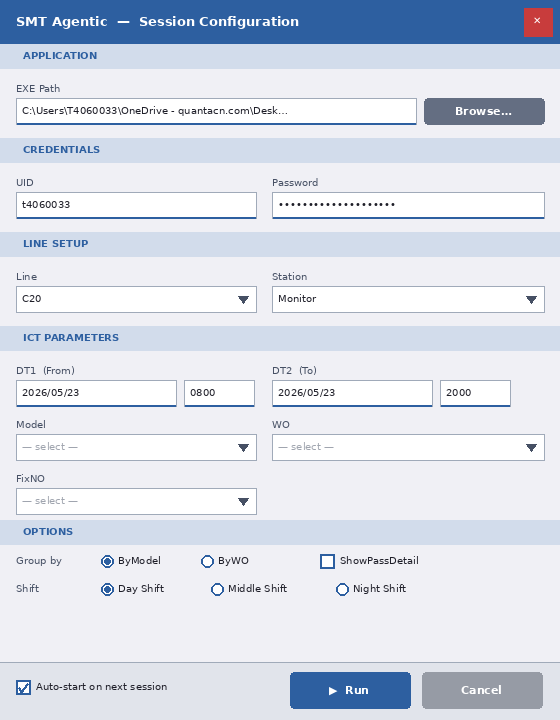
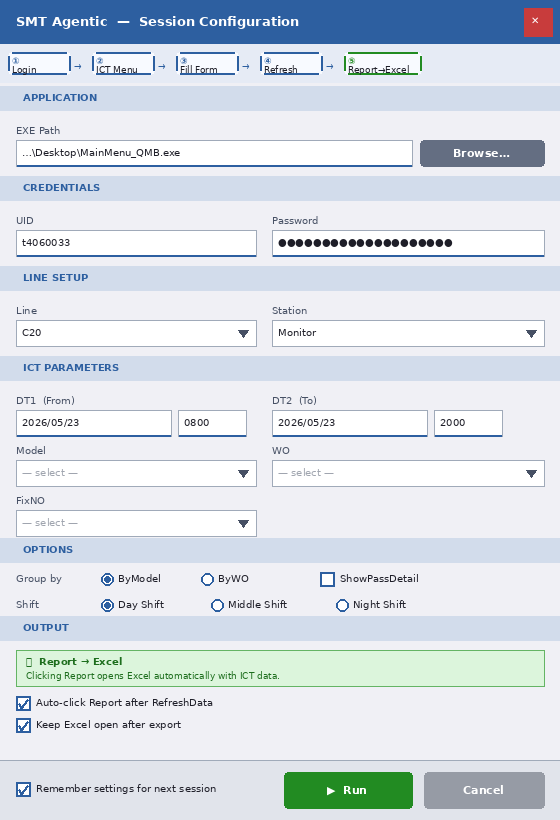
feat: update UI mockup with flow strip and Output/Excel section
- Add compact 5-step process flow strip at top (Login→ICT Menu→Fill Form→Refresh→Report→Excel)
- Add OUTPUT section with green info box describing Excel export behavior
- Add "Auto-click Report after RefreshData" and "Keep Excel open" checkboxes
- Resize canvas to H=820 to accommodate new sections

https://claude.ai/code/session_01MAY3agYrcekE98zLmVcJhG

diff --git a/prototype/mockup.py b/prototype/mockup.py
@@ -3,77 +3,73 @@
 from PIL import Image, ImageDraw, ImageFont
 import os
 
-W, H = 560, 720
-BG       = (240, 240, 245)
-TITLEBAR = (45,  95, 160)
-SECTION  = (210, 220, 235)
-WHITE    = (255, 255, 255)
-BORDER   = (160, 170, 185)
-TEXT     = (30,  30,  40)
-LABEL    = (70,  80, 100)
-BTN_RUN  = (45,  95, 160)
-BTN_CANCEL=(150,155,165)
-BTN_TEXT = (255,255,255)
-ACCENT   = (45,  95, 160)
-RADIO_ON = (45,  95, 160)
-RED_HINT = (210,  60,  60)
-PLACEHOLDER=(160,165,175)
+W, H = 560, 820
+BG          = (240, 240, 245)
+TITLEBAR    = (45,  95, 160)
+SECTION     = (210, 220, 235)
+WHITE       = (255, 255, 255)
+BORDER      = (160, 170, 185)
+TEXT        = (30,  30,  40)
+LABEL       = (70,  80, 100)
+BTN_RUN     = (34, 139,  34)
+BTN_CANCEL  = (150,155,165)
+BTN_TEXT    = (255,255,255)
+ACCENT      = (45,  95, 160)
+PLACEHOLDER = (160,165,175)
+GREEN_LIGHT = (220, 245, 220)
+GREEN_BORDER= (100, 180, 100)
+GREEN_TEXT  = (30,  110,  30)
+FLOW_BG     = (248, 250, 255)
+FLOW_ARROW  = (45,   95, 160)
 
 img = Image.new("RGB", (W, H), BG)
 d   = ImageDraw.Draw(img)
 
-# ── font helpers ──────────────────────────────────────────────────────────────
+# ── fonts ─────────────────────────────────────────────────────────────────────
 def font(size, bold=False):
-    candidates = [
+    for p in [
         "/usr/share/fonts/truetype/dejavu/DejaVuSans-Bold.ttf" if bold else
         "/usr/share/fonts/truetype/dejavu/DejaVuSans.ttf",
         "/usr/share/fonts/truetype/liberation/LiberationSans-Bold.ttf" if bold else
         "/usr/share/fonts/truetype/liberation/LiberationSans-Regular.ttf",
-    ]
-    for p in candidates:
+    ]:
         if os.path.exists(p):
             return ImageFont.truetype(p, size)
     return ImageFont.load_default()
 
-F_TITLE  = font(13, bold=True)
-F_SECT   = font(10, bold=True)
-F_LABEL  = font(10)
-F_INPUT  = font(10)
-F_BTN    = font(11, bold=True)
-F_SMALL  = font(9)
+F_TITLE = font(13, bold=True)
+F_SECT  = font(10, bold=True)
+F_LABEL = font(10)
+F_INPUT = font(10)
+F_BTN   = font(11, bold=True)
+F_SMALL = font(9)
+F_FLOW  = font(9, bold=True)
 
-# ── helpers ───────────────────────────────────────────────────────────────────
-def roundrect(draw, xy, r, fill, outline=None, width=1):
+# ── drawing helpers ───────────────────────────────────────────────────────────
+def roundrect(draw, xy, r, fill, outline=None, lw=1):
     x1,y1,x2,y2 = xy
     draw.rectangle([x1+r,y1,x2-r,y2], fill=fill)
     draw.rectangle([x1,y1+r,x2,y2-r], fill=fill)
-    draw.ellipse([x1,y1,x1+2*r,y1+2*r], fill=fill)
-    draw.ellipse([x2-2*r,y1,x2,y1+2*r], fill=fill)
-    draw.ellipse([x1,y2-2*r,x1+2*r,y2], fill=fill)
-    draw.ellipse([x2-2*r,y2-2*r,x2,y2], fill=fill)
+    for ex,ey in [(x1,y1),(x2-2*r,y1),(x1,y2-2*r),(x2-2*r,y2-2*r)]:
+        draw.ellipse([ex,ey,ex+2*r,ey+2*r], fill=fill)
     if outline:
-        draw.rectangle([x1+r,y1,x2-r,y1+width], fill=outline)
-        draw.rectangle([x1+r,y2-width,x2-r,y2], fill=outline)
-        draw.rectangle([x1,y1+r,x1+width,y2-r], fill=outline)
-        draw.rectangle([x2-width,y1+r,x2,y2-r], fill=outline)
+        draw.rectangle([x1+r,y1,x2-r,y1+lw], fill=outline)
+        draw.rectangle([x1+r,y2-lw,x2-r,y2], fill=outline)
+        draw.rectangle([x1,y1+r,x1+lw,y2-r], fill=outline)
+        draw.rectangle([x2-lw,y1+r,x2,y2-r], fill=outline)
 
 def text_field(draw, x, y, w, value, placeholder=False, pw=False):
     h = 26
     draw.rectangle([x,y,x+w,y+h], fill=WHITE, outline=BORDER)
-    # blue bottom border (focus style)
-    draw.line([x+1, y+h-1, x+w-1, y+h-1], fill=ACCENT, width=2)
-    val = "●" * len(value) if pw else value
+    draw.line([x+1,y+h-1,x+w-1,y+h-1], fill=ACCENT, width=2)
     col = PLACEHOLDER if placeholder else TEXT
-    draw.text((x+6, y+6), val, font=F_INPUT, fill=col)
+    draw.text((x+6, y+6), "●"*len(value) if pw else value, font=F_INPUT, fill=col)
 
 def dropdown(draw, x, y, w, value, placeholder=False):
-    h = 26
     col = PLACEHOLDER if placeholder else TEXT
-    draw.rectangle([x,y,x+w,y+h], fill=WHITE, outline=BORDER)
+    draw.rectangle([x,y,x+w,y+26], fill=WHITE, outline=BORDER)
     draw.text((x+6, y+6), value, font=F_INPUT, fill=col)
-    # arrow
-    ax = x+w-18
-    ay = y+10
+    ax = x+w-18; ay = y+10
     draw.polygon([(ax,ay),(ax+10,ay),(ax+5,ay+7)], fill=LABEL)
 
 def button(draw, x, y, w, h, label, bg, fg=BTN_TEXT):
@@ -82,8 +78,8 @@ def button(draw, x, y, w, h, label, bg, fg=BTN_TEXT):
     draw.text((x+(w-tw)//2, y+(h-14)//2), label, font=F_BTN, fill=fg)
 
 def section_header(draw, y, label):
-    draw.rectangle([0, y, W, y+24], fill=SECTION)
-    draw.text((16, y+5), label, font=F_SECT, fill=ACCENT)
+    draw.rectangle([0,y,W,y+24], fill=SECTION)
+    draw.text((16,y+5), label, font=F_SECT, fill=ACCENT)
     return y+24
 
 def radio(draw, x, y, label, on=False):
@@ -93,110 +89,138 @@ def radio(draw, x, y, label, on=False):
         draw.ellipse([cx-3,cy-3,cx+3,cy+3], fill=ACCENT)
     draw.text((x+18, y), label, font=F_LABEL, fill=TEXT)
 
-def checkbox(draw, x, y, label, checked=False):
+def checkbox(draw, x, y, label, checked=False, label_col=None):
     draw.rectangle([x,y,x+14,y+14], outline=ACCENT, fill=WHITE, width=2)
     if checked:
         draw.line([x+2,y+7,x+5,y+12], fill=ACCENT, width=2)
         draw.line([x+5,y+12,x+12,y+3], fill=ACCENT, width=2)
-    draw.text((x+20, y), label, font=F_LABEL, fill=TEXT)
+    draw.text((x+20, y), label, font=F_LABEL, fill=label_col or TEXT)
+
+def flow_step(draw, x, y, w, h, icon, label, color=ACCENT):
+    roundrect(draw, [x,y,x+w,y+h], 6, FLOW_BG, outline=color, lw=1)
+    draw.text((x+8, y+4), icon,  font=F_FLOW, fill=color)
+    draw.text((x+8, y+16), label, font=F_SMALL, fill=TEXT)
+
+def arrow(draw, x, y):
+    draw.line([x,y,x,y+10], fill=FLOW_ARROW, width=2)
+    draw.polygon([(x-4,y+8),(x+4,y+8),(x,y+14)], fill=FLOW_ARROW)
 
 # ══════════════════════════════════════════════════════════════════════════════
 # Title bar
 d.rectangle([0,0,W,44], fill=TITLEBAR)
 d.text((16,13), "SMT Agentic  —  Session Configuration", font=F_TITLE, fill=WHITE)
-# close button
 d.rectangle([W-36,8,W-8,36], fill=(200,60,60))
-d.text((W-27,14), "✕", font=F_LABEL, fill=WHITE)
+d.text((W-29,14), "✕", font=F_LABEL, fill=WHITE)
 
+# ── Flow strip (compact) ──────────────────────────────────────────────────────
 y = 44
+d.rectangle([0,y,W,y+38], fill=(230,235,245))
+steps = [
+    ("①","Login"),("→",None),("②","ICT Menu"),("→",None),
+    ("③","Fill Form"),("→",None),("④","Refresh"),("→",None),("⑤","Report→Excel"),
+]
+sx = 8
+sy = y+8
+for icon, label in steps:
+    if label is None:
+        d.text((sx, sy+8), icon, font=F_SMALL, fill=FLOW_ARROW)
+        sx += 18
+    else:
+        tw = max(draw.textlength(label, font=F_SMALL) for draw in [d]) + 16
+        tw = max(tw, 62)
+        col = (34,139,34) if "Excel" in label else ACCENT
+        roundrect(d, [sx,sy,sx+tw,sy+22], 4, FLOW_BG, outline=col, lw=1)
+        d.text((sx+4, sy+3),  icon,  font=F_FLOW,  fill=col)
+        d.text((sx+4, sy+12), label, font=F_SMALL, fill=TEXT)
+        sx += tw + 4
 
-# ── Section: Application ──────────────────────────────────────────────────────
+y += 42
+
+# ── APPLICATION ───────────────────────────────────────────────────────────────
 y = section_header(d, y, "  APPLICATION")
 y += 8
-d.text((16, y+6), "EXE Path", font=F_LABEL, fill=LABEL)
-text_field(d, 16, y+22, 400, r"C:\Users\T4060033\OneDrive - quantacn.com\Desktop\MainMenu_QMB.exe"[:46]+"…")
-button(d, 424, y+22, 120, 26, "Browse…", (100,110,130))
-y += 62
+d.text((16,y+6), "EXE Path", font=F_LABEL, fill=LABEL)
+text_field(d, 16, y+22, 396, r"…\Desktop\MainMenu_QMB.exe")
+button(d, 420, y+22, 124, 26, "Browse…", (100,110,130))
+y += 58
 
-# ── Section: Credentials ─────────────────────────────────────────────────────
+# ── CREDENTIALS ───────────────────────────────────────────────────────────────
 y = section_header(d, y, "  CREDENTIALS")
 y += 8
-# UID
-d.text((16, y+6), "UID", font=F_LABEL, fill=LABEL)
-text_field(d, 16, y+22, 240, "t4060033")
-# Password
-d.text((272, y+6), "Password", font=F_LABEL, fill=LABEL)
-text_field(d, 272, y+22, 272, "••••••••••••••••••••", pw=False)
-y += 62
+d.text((16,y+6),  "UID",      font=F_LABEL, fill=LABEL)
+text_field(d, 16,  y+22, 240, "t4060033")
+d.text((272,y+6), "Password", font=F_LABEL, fill=LABEL)
+text_field(d, 272, y+22, 272, "●●●●●●●●●●●●●●●●●●●●")
+y += 58
 
-# ── Section: Line / Station ───────────────────────────────────────────────────
+# ── LINE SETUP ────────────────────────────────────────────────────────────────
 y = section_header(d, y, "  LINE SETUP")
 y += 8
-d.text((16, y+6),  "Line",    font=F_LABEL, fill=LABEL)
+d.text((16,y+6),  "Line",    font=F_LABEL, fill=LABEL)
 dropdown(d, 16,  y+22, 240, "C20")
-d.text((272, y+6), "Station", font=F_LABEL, fill=LABEL)
+d.text((272,y+6), "Station", font=F_LABEL, fill=LABEL)
 dropdown(d, 272, y+22, 272, "Monitor")
-y += 62
+y += 58
 
-# ── Section: ICT Parameters ───────────────────────────────────────────────────
+# ── ICT PARAMETERS ────────────────────────────────────────────────────────────
 y = section_header(d, y, "  ICT PARAMETERS")
 y += 8
-# DT1
-d.text((16, y+6),  "DT1  (From)",  font=F_LABEL, fill=LABEL)
-text_field(d, 16,  y+22, 160, "2026/05/23")
-text_field(d, 184, y+22, 70,  "0800")
-# DT2
-d.text((272, y+6), "DT2  (To)",    font=F_LABEL, fill=LABEL)
-text_field(d, 272, y+22, 160, "2026/05/23")
-text_field(d, 440, y+22, 70,  "2000")
-y += 54
+d.text((16,y+6),  "DT1  (From)", font=F_LABEL, fill=LABEL)
+text_field(d, 16,  y+22, 155, "2026/05/23")
+text_field(d, 178, y+22, 68,  "0800")
+d.text((272,y+6), "DT2  (To)",   font=F_LABEL, fill=LABEL)
+text_field(d, 272, y+22, 155, "2026/05/23")
+text_field(d, 434, y+22, 68,  "2000")
+y += 50
 
-# Model / WO
-d.text((16, y+6),  "Model",  font=F_LABEL, fill=LABEL)
+d.text((16,y+6),  "Model", font=F_LABEL, fill=LABEL)
 dropdown(d, 16,  y+22, 240, "— select —", placeholder=True)
-d.text((272, y+6), "WO",     font=F_LABEL, fill=LABEL)
+d.text((272,y+6), "WO",    font=F_LABEL, fill=LABEL)
 dropdown(d, 272, y+22, 272, "— select —", placeholder=True)
-y += 54
+y += 50
 
-# FixNO
-d.text((16, y+6), "FixNO", font=F_LABEL, fill=LABEL)
+d.text((16,y+6), "FixNO", font=F_LABEL, fill=LABEL)
 dropdown(d, 16, y+22, 240, "— select —", placeholder=True)
-y += 54
+y += 50
 
-# ── Section: Options ─────────────────────────────────────────────────────────
+# ── OPTIONS ───────────────────────────────────────────────────────────────────
 y = section_header(d, y, "  OPTIONS")
 y += 10
-
-# ByModel / ByWO
-d.text((16, y), "Group by", font=F_LABEL, fill=LABEL)
+d.text((16,y),   "Group by", font=F_LABEL, fill=LABEL)
 radio(d, 100, y, "ByModel", on=True)
 radio(d, 200, y, "ByWO",    on=False)
 checkbox(d, 320, y, "ShowPassDetail", checked=False)
-y += 28
-
-# Shift
-d.text((16, y), "Shift", font=F_LABEL, fill=LABEL)
+y += 26
+d.text((16,y),   "Shift",      font=F_LABEL, fill=LABEL)
 radio(d, 100, y, "Day Shift",    on=True)
 radio(d, 210, y, "Middle Shift", on=False)
 radio(d, 335, y, "Night Shift",  on=False)
-y += 20
+y += 18
+
+# ── OUTPUT ────────────────────────────────────────────────────────────────────
+y = section_header(d, y, "  OUTPUT")
+y += 10
+
+# Green info box
+d.rectangle([16,y,W-16,y+36], fill=GREEN_LIGHT, outline=GREEN_BORDER)
+d.text((26, y+5),  "📊  Report → Excel", font=F_SECT,  fill=GREEN_TEXT)
+d.text((26, y+20), "Clicking Report opens Excel automatically with ICT data.", font=F_SMALL, fill=GREEN_TEXT)
+y += 46
+
+checkbox(d, 16, y, "Auto-click Report after RefreshData", checked=True)
+y += 22
+checkbox(d, 16, y, "Keep Excel open after export",        checked=True)
+y += 14
 
 # ── Bottom bar ────────────────────────────────────────────────────────────────
-y = H - 58
-d.rectangle([0, y, W, H], fill=(225,228,235))
-d.line([0, y, W, y], fill=BORDER, width=1)
+y_bar = H - 60
+d.rectangle([0,y_bar,W,H], fill=(225,228,235))
+d.line([0,y_bar,W,y_bar], fill=BORDER, width=1)
 
-# Auto-start toggle
-checkbox(d, 16, y+18, "Auto-start on next session", checked=True)
-
-# Buttons
-button(d, W-270, y+10, 120, 36, "▶  Run", BTN_RUN)
-button(d, W-138, y+10, 120, 36, "Cancel", BTN_CANCEL)
-
-# ── Subtle drop shadow on dialog ─────────────────────────────────────────────
-# (already done by BG)
+checkbox(d, 16, y_bar+22, "Remember settings for next session", checked=True)
+button(d, W-276, y_bar+12, 128, 36, "▶  Run",  BTN_RUN)
+button(d, W-136, y_bar+12, 120, 36, "Cancel", BTN_CANCEL)
 
 out = "/home/user/SMT-Agentic/prototype/ui_mockup.png"
-os.makedirs(os.path.dirname(out), exist_ok=True)
-img.save(out, dpi=(144, 144))
+img.save(out, dpi=(144,144))
 print(f"Saved: {out}")
